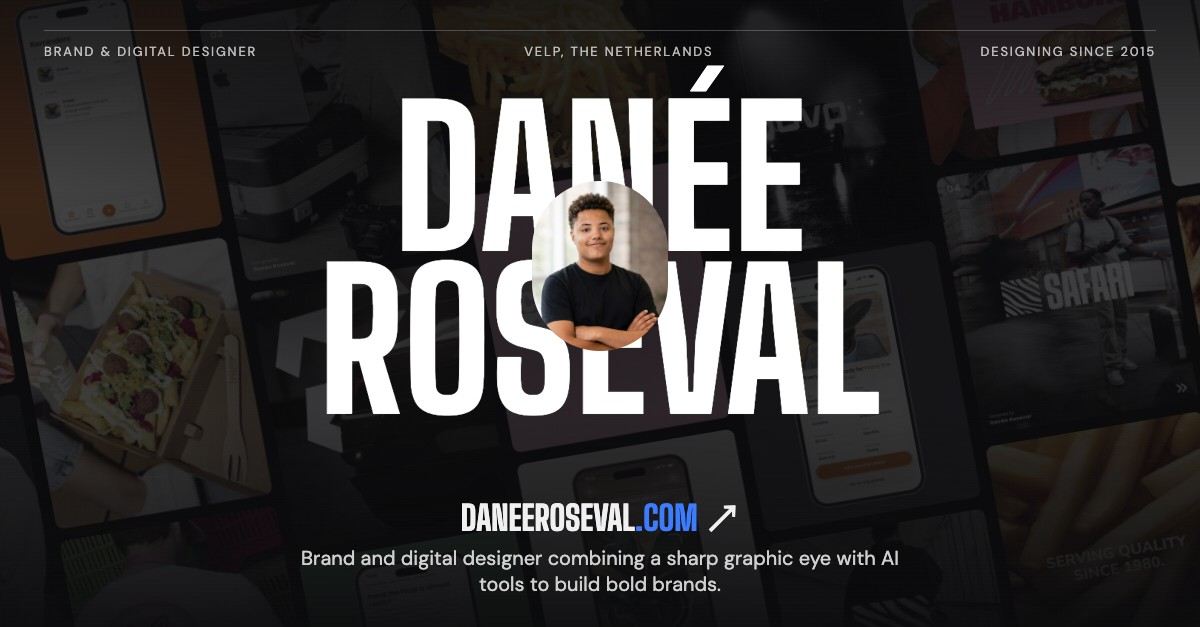
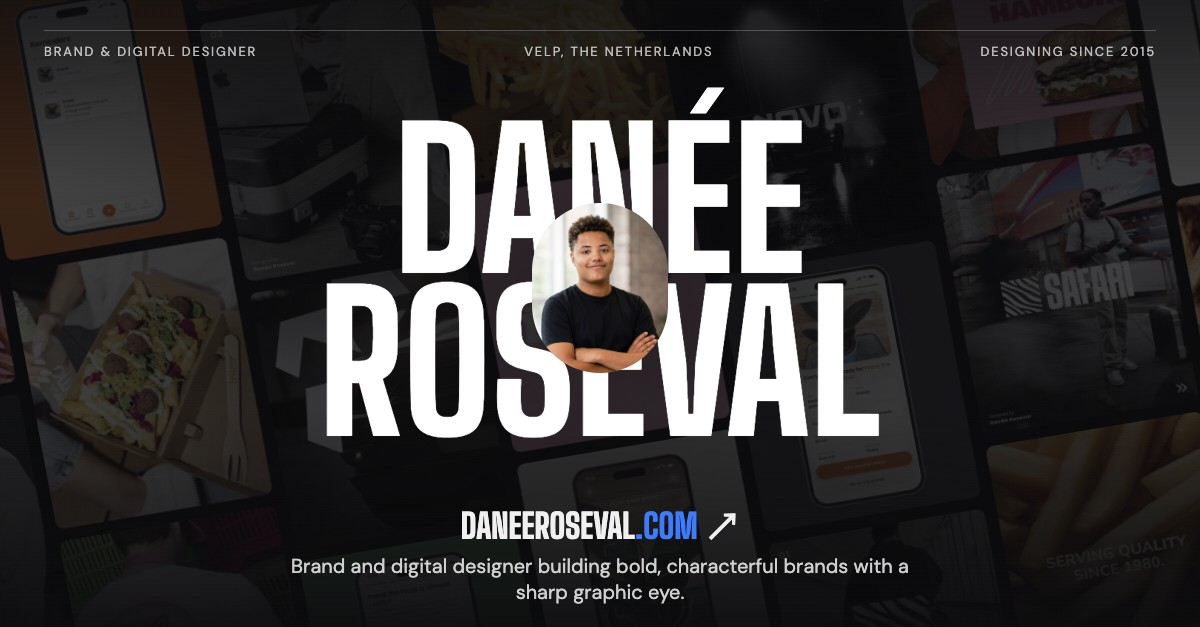
commit

Changed region(s): [[0.2467, 0.0909, 0.74, 0.697], [0.2467, 0.7879, 0.7708, 0.9697]]

diff --git a/assets/i18n.js b/assets/i18n.js
@@ -40,25 +40,25 @@
     "hero.place": ["Velp, The Netherlands", "Velp, Nederland"],
     "hero.since": ["Designing since 2015",
                    "Ontwerpt sinds 2015"],
-    "hero.intro": ["I’m Danée Roseval, a brand and digital designer who pairs a sharp graphic eye with the newest AI tools to build bold brands, faster and better.",
-                   "Ik ben Danée Roseval, brand- en digital designer. Ik combineer een scherp grafisch oog met de nieuwste AI-tools om sterke merken te bouwen, sneller en beter."],
+    "hero.intro": ["I’m Danée Roseval, a brand and digital designer who builds bold, characterful brands with a sharp graphic eye and a modern toolkit.",
+                   "Ik ben Danée Roseval, brand- en digital designer. Ik bouw sterke merken met karakter, met een scherp grafisch oog en een moderne toolkit."],
     "hero.scroll": ["Scroll", "Scroll"],
     "work.title": ["Selected work", "Geselecteerd werk"],
     "disc.identity": ["Brand identity", "Merkidentiteit"],
-    "disc.story": ["AI-powered design",
-                   "Ontwerpen met AI"],
+    "disc.story": ["Visual storytelling",
+                   "Visuele storytelling"],
     "disc.direction": ["Creative direction", "Creatieve regie"],
     "disc.web": ["Web design", "Webdesign"],
     "about.title": ["About", "Over mij"],
-    "about.lead": ["Craft first, AI as the multiplier. The newest tools let me explore more routes and move faster, so there is more time for <em>the details that make a brand stick.</em>",
-                   "Vakmanschap eerst, AI als versneller. Met de nieuwste tools verken ik meer richtingen en werk ik sneller, zodat er meer tijd overblijft voor <em>de details die een merk laten hangen.</em>"],
-    "about.body": ["With a Bachelor’s in Communication & Multimedia Design and a minor in Strategic Branding, I connect strategy with hands-on design: identities, websites, campaigns and motion. AI is part of my daily workflow, from first concepts and moodboards to animation and production. Tools change fast. Concept, taste and craft are what I bring to every project.",
-                   "Met een bachelor Communicatie & Multimedia Design en een minor Strategic Branding verbind ik strategie met hands-on ontwerp: identiteiten, websites, campagnes en motion. AI zit in mijn dagelijkse werkproces, van eerste concepten en moodboards tot animatie en productie. Tools veranderen snel. Concept, smaak en vakmanschap breng ik in elk project mee."],
+    "about.lead": ["Strong concepts, sharp craft and an eye for detail. I build brands that look bold and <em>feel meaningful and authentic.</em>",
+                   "Sterke concepten, scherp vakmanschap en oog voor detail. Ik bouw merken die er sterk uitzien en <em>betekenisvol en echt voelen.</em>"],
+    "about.body": ["With a Bachelor’s in Communication & Multimedia Design and a minor in Strategic Branding, I connect strategy with hands-on design: identities, websites, campaigns and motion. New tools, AI included, help me explore more routes and work faster, so there is more time for concept and craft.",
+                   "Met een bachelor Communicatie & Multimedia Design en een minor Strategic Branding verbind ik strategie met hands-on ontwerp: identiteiten, websites, campagnes en motion. Nieuwe tools, AI inbegrepen, helpen me meer richtingen te verkennen en sneller te werken, zodat er meer tijd overblijft voor concept en vakmanschap."],
     "exp.title": ["Experience", "Ervaring"],
     "exp.present": ["2025 – Present", "2025 – heden"],
     "exp.gob.org": ["Gobsmacked® B2B marketing agency", "Gobsmacked® B2B-marketingbureau"],
-    "exp.gob.desc": ["I lead full rebrands for B2B brands, from visual identity to digital rollout, and design websites, campaigns and motion content. AI tools are part of how I work: to explore more creative routes, build faster and keep every touchpoint consistent.",
-                   "Ik leid complete rebrands voor B2B-merken, van visuele identiteit tot digitale uitrol, en ontwerp websites, campagnes en motion content. AI-tools horen bij hoe ik werk: om meer creatieve richtingen te verkennen, sneller te bouwen en elk contactmoment consistent te houden."],
+    "exp.gob.desc": ["I lead full rebrands for B2B brands, from visual identity to digital rollout, and design websites, campaigns and motion content that keep every touchpoint consistent and purposeful.",
+                   "Ik leid complete rebrands voor B2B-merken, van visuele identiteit tot digitale uitrol, en ontwerp websites, campagnes en motion content die elk contactmoment consistent en doelgericht maken."],
     "exp.gob.role": ["Graphic Designer", "Grafisch ontwerper"],
     "exp.ast.role": ["Content Marketeer", "Content marketeer"],
     "exp.ast.desc": ["I developed and ran campaigns that put Arnhem on the map as a vibrant student city: from marketing strategy and content plans to the visuals that brought each campaign to life.",

diff --git a/index.html b/index.html
@@ -4,11 +4,11 @@
   <meta charset="utf-8">
   <meta name="viewport" content="width=device-width, initial-scale=1">
   <title>Danée Roseval | Brand &amp; Digital Designer</title>
-  <meta name="description" content="Danée Roseval, brand and digital designer in Velp, the Netherlands, combining graphic design with AI tools to build bold brands.">
+  <meta name="description" content="Danée Roseval, brand and digital designer in Velp, the Netherlands, building bold, characterful brands.">
   <meta property="og:type" content="website">
   <meta property="og:site_name" content="Danée Roseval">
   <meta property="og:title" content="Danée Roseval | Brand &amp; Digital Designer">
-  <meta property="og:description" content="Brand and digital designer combining a sharp graphic eye with AI tools to build bold brands.">
+  <meta property="og:description" content="Brand and digital designer building bold, characterful brands with a sharp graphic eye.">
   <meta property="og:url" content="https://daneeroseval.com/">
   <meta property="og:image" content="https://daneeroseval.com/assets/og-image.jpg">
   <meta property="og:image:width" content="1200">
@@ -73,7 +73,7 @@
     </section>
 
     <!-- Disciplines -->
-    <div class="marquee" aria-label="Brand identity, AI-powered design, creative direction, web design">
+    <div class="marquee" aria-label="Brand identity, visual storytelling, creative direction, web design">
       <div class="marquee-track" aria-hidden="true">
         <span class="marquee-item"><span data-i18n="disc.identity">Brand identity</span><img src="assets/logo.svg" alt="" width="40" height="40" style="width:.42em;height:.42em"></span>
         <span class="marquee-item"><span data-i18n="disc.story">Visual storytelling</span><img src="assets/logo.svg" alt="" width="40" height="40" style="width:.42em;height:.42em"></span>

diff --git a/case.html b/case.html
@@ -7,7 +7,7 @@
   <meta property="og:type" content="website">
   <meta property="og:site_name" content="Danée Roseval">
   <meta property="og:title" content="Danée Roseval | Brand &amp; Digital Designer">
-  <meta property="og:description" content="Brand and digital designer combining a sharp graphic eye with AI tools to build bold brands.">
+  <meta property="og:description" content="Brand and digital designer building bold, characterful brands with a sharp graphic eye.">
   <meta property="og:url" content="https://daneeroseval.com/">
   <meta property="og:image" content="https://daneeroseval.com/assets/og-image.jpg">
   <meta property="og:image:width" content="1200">

diff --git a/chubby-buns.html b/chubby-buns.html
@@ -8,7 +8,7 @@
   <meta property="og:type" content="website">
   <meta property="og:site_name" content="Danée Roseval">
   <meta property="og:title" content="Danée Roseval | Brand &amp; Digital Designer">
-  <meta property="og:description" content="Brand and digital designer combining a sharp graphic eye with AI tools to build bold brands.">
+  <meta property="og:description" content="Brand and digital designer building bold, characterful brands with a sharp graphic eye.">
   <meta property="og:url" content="https://daneeroseval.com/">
   <meta property="og:image" content="https://daneeroseval.com/assets/og-image.jpg">
   <meta property="og:image:width" content="1200">

diff --git a/friteur.html b/friteur.html
@@ -8,7 +8,7 @@
   <meta property="og:type" content="website">
   <meta property="og:site_name" content="Danée Roseval">
   <meta property="og:title" content="Danée Roseval | Brand &amp; Digital Designer">
-  <meta property="og:description" content="Brand and digital designer combining a sharp graphic eye with AI tools to build bold brands.">
+  <meta property="og:description" content="Brand and digital designer building bold, characterful brands with a sharp graphic eye.">
   <meta property="og:url" content="https://daneeroseval.com/">
   <meta property="og:image" content="https://daneeroseval.com/assets/og-image.jpg">
   <meta property="og:image:width" content="1200">

diff --git a/novo.html b/novo.html
@@ -8,7 +8,7 @@
   <meta property="og:type" content="website">
   <meta property="og:site_name" content="Danée Roseval">
   <meta property="og:title" content="Danée Roseval | Brand &amp; Digital Designer">
-  <meta property="og:description" content="Brand and digital designer combining a sharp graphic eye with AI tools to build bold brands.">
+  <meta property="og:description" content="Brand and digital designer building bold, characterful brands with a sharp graphic eye.">
   <meta property="og:url" content="https://daneeroseval.com/">
   <meta property="og:image" content="https://daneeroseval.com/assets/og-image.jpg">
   <meta property="og:image:width" content="1200">

diff --git a/safari.html b/safari.html
@@ -8,7 +8,7 @@
   <meta property="og:type" content="website">
   <meta property="og:site_name" content="Danée Roseval">
   <meta property="og:title" content="Danée Roseval | Brand &amp; Digital Designer">
-  <meta property="og:description" content="Brand and digital designer combining a sharp graphic eye with AI tools to build bold brands.">
+  <meta property="og:description" content="Brand and digital designer building bold, characterful brands with a sharp graphic eye.">
   <meta property="og:url" content="https://daneeroseval.com/">
   <meta property="og:image" content="https://daneeroseval.com/assets/og-image.jpg">
   <meta property="og:image:width" content="1200">

diff --git a/sybotanica.html b/sybotanica.html
@@ -8,7 +8,7 @@
   <meta property="og:type" content="website">
   <meta property="og:site_name" content="Danée Roseval">
   <meta property="og:title" content="Danée Roseval | Brand &amp; Digital Designer">
-  <meta property="og:description" content="Brand and digital designer combining a sharp graphic eye with AI tools to build bold brands.">
+  <meta property="og:description" content="Brand and digital designer building bold, characterful brands with a sharp graphic eye.">
   <meta property="og:url" content="https://daneeroseval.com/">
   <meta property="og:image" content="https://daneeroseval.com/assets/og-image.jpg">
   <meta property="og:image:width" content="1200">
